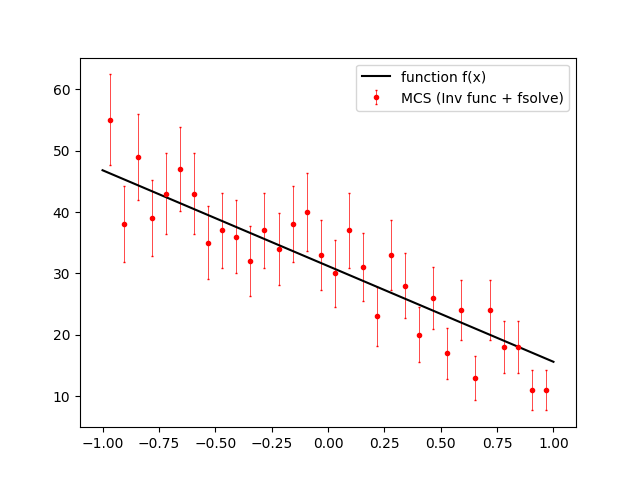
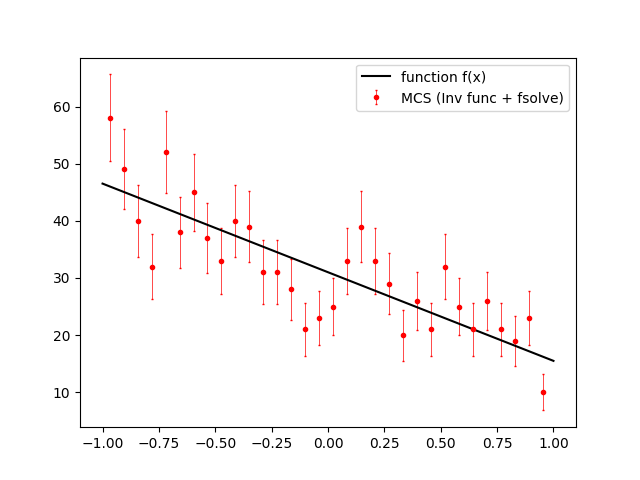
comments + comparing section init

diff --git a/Montecarlo/montecarlo_test.py b/Montecarlo/montecarlo_test.py
@@ -15,7 +15,7 @@ from tools import bounded_norm_distr, bisection, newton_root_finder, log_scale_i
 start_time = time.monotonic()
 
 
-exercise = 3  #to execute only one exercise at time
+exercise = 5  #to execute only one exercise at time
 
 #**************************************************************
 #plotting config
@@ -304,7 +304,7 @@ elif exercise == 5 :
     while counter < sample_dim:     #algorithm implementation
         u = rng.random()
         
-        zeros = fsolve(func_shifter, mid, (accum_func, arg, u), xtol= tol) #use of fsolve !TAKE CARE OF EXTIMATOR!  
+        zeros = fsolve(func_shifter, x_min, (accum_func, arg, u), xtol= tol) #use of fsolve !TAKE CARE OF EXTIMATOR!  
         y = zeros
         temp.append(y)
         counter +=1
@@ -507,8 +507,8 @@ elif exercise == 7 :
 #**************************************************************
 #INVERSE FUNCTION (ACCUMULATION) METHOD SAMPLING (cum func method on lum func)
 elif exercise == 8 :
-    x_min = 1.0e29              #interval of interest
-    x_max = 1.0e38
+    x_min = 1.0e30             #interval of interest
+    x_max = 1.0e3
  #-----------------------------------------------
     #drawing instructions
     draw = np.geomspace(x_min, x_max, 10000)
@@ -519,7 +519,7 @@ elif exercise == 8 :
     #plt.ylim(1.0e-45 , 1.2e-27)
 
  #-----------------------------------------------
-    sample_dim = 1.0e2              
+    sample_dim = 1.0e3              
     n_bins = round(sample_dim**0.5)
 
 
@@ -535,7 +535,7 @@ elif exercise == 8 :
         
             return (norm *frac)
     elif test_func == 1:
-        arg = (1.0, 2.5e34, -0.66, 18.2)      #disk data for ex
+        arg = (1.0, 2.5e34, -0.66, 18.2)      #NPTF data for ex
         def myfunc(x, norm, x_b, n1, n2):   #broken power law function  (be carefull about exponential renorm)  
             frac = x / x_b
             if  frac < 1:
@@ -547,17 +547,17 @@ elif exercise == 8 :
 
  #--------------------------
 
-    cum_points = np.geomspace(x_min, x_max, n_bins)    #points where to evaluate cum funct
+    cum_points = np.geomspace(x_min, x_max, n_bins)    #points where to evaluate cum funct (to be fixed)
     norm = log_scale_int(myfunc, x_min, x_max, arg)[0]
     
-    bin_dim = np.ones(n_bins)
+    bin_dim = np.ones(n_bins)                           #bins width
     for i in range(1, len(cum_points)):
         bin_dim[i] = cum_points[i] - cum_points[i-1]
 
     cum_values = np.zeros(len(cum_points))
-    for i in range(len(cum_points)):
+    for i in range(len(cum_points)):                    #evaluation of cumulative function in the selected points
         integral = log_scale_int(myfunc, x_min, cum_points[i],arg)
-        cum_values[i] = integral[0] / norm 
+        cum_values[i] = integral[0] / norm              #normalized
 
 
     #rng = np.random.default_rng()
@@ -587,6 +587,78 @@ elif exercise == 8 :
 
     plt.legend()
     plt.savefig(os.path.join("inv_func_sample_lum_func.png"))
+
+#**************************************************************
+#COMPARING (simple func and lum func)
+elif exercise == 9:
+    x_min = -1.0                    #interval of interest
+    x_max = 1.0
+ #drawing and plot
+    draw = np.linspace(x_min, x_max, 10000)
+    fig, ax = plt.subplots()
+
+ #-----------------------------------------------
+    sample_dim = 1.0e3                      #sample dimension
+    n_bins = round(sample_dim**0.5)         #number of bins
+    bin_dim = (x_max - x_min) / n_bins      #bins width
+
+ #-----------------------------------------------
+ #f(x) parameters and definition
+    k = 1.0
+    alpha = -2.0
+    beta = 1.0
+    arg = ()
+
+    test_func = 0
+    if test_func == 0: 
+        def myfunc(x):
+            #log parabola
+            a = alpha - beta * np.log10(x+2.0)
+            return (k * (x+2.0)**a) 
+    elif test_func == 1:
+        def myfunc(x):
+            #abs func (cusp)
+            return (-abs(x) + 2.0) 
+    elif test_func == 2:
+        def myfunc(x):
+
+            return (-x+2.0)
+ #-----------------------------------------------
+
+    cum_points = np.linspace(x_min, x_max, n_bins)    #points where to evaluate cum funct
+    norm = integrate.quad(myfunc, x_min, x_max, arg, epsabs= abs_err, epsrel=rel_err)[0] #normalization to unit
+
+    cum_values = np.zeros(len(cum_points))      
+    for i in range(len(cum_points)):                   #evaluation of cumulative function in the selected points
+        integral = integrate.quad(myfunc, x_min, cum_points[i], arg, epsabs= abs_err, epsrel=rel_err)[0]
+        cum_values[i] = integral / norm #normalized
+
+    #rng = np.random.default_rng()
+    #u = rng.random(sample_dim)
+    u = np.random.random_sample(int(sample_dim))
+
+    x = np.zeros(int(sample_dim))
+    y_n = np.zeros(n_bins)              #count how many cases are in a bin
+    for i in range(0 , int(sample_dim)):
+        step = 0
+        while (cum_values[step] < u[i]):
+            step += 1
+            
+        x[i] = cum_values[step]
+        y_n[step] +=1
+
+ #-----------------------------------------------
+    #plot
+    vector_func = np.vectorize(myfunc)
+    y_draw = vector_func(draw, *arg)
+    ax.plot(draw, y_draw/norm*sample_dim*bin_dim, color = "black", label = "function f(x)")
+
+    y_err = y_n ** 0.5
+    #count, bins, ignored = ax.hist(x, n_bins, density=True)
+    ax.errorbar(cum_points[1:], y_n[1:] , yerr = y_err[1:], color='r', capsize=1, capthick=1,ls='', elinewidth=0.5,marker='o',markersize=3, label = 'MCS (Inv func + cum)')
+
+    plt.legend()
+    plt.savefig(os.path.join("inv_func_sample(cumulative).png"))
 
 end_time = time.monotonic()
 print("Execution time: " , timedelta(seconds= end_time - start_time))

diff --git a/toolbox/tools.py b/toolbox/tools.py
@@ -10,6 +10,10 @@ from scipy.special import erf
 # Root finders
 
 def bisection(func, arg, a, b, tol= 1.0e8, nmax=1.0e4, print_stat = False):
+    #bisection method root finder.
+    #Search a root (in the interval [a, b])  of a function func with arguments arg. 
+    #Tolerance and number of maximum interations are pre-selected.
+    #print_stat: if true print the # of iter, root value computed and function evaluated in that point
     dx = abs(b-a)
     res = a + 0.5 * dx
     k = 0
@@ -45,6 +49,12 @@ def bisection(func, arg, a, b, tol= 1.0e8, nmax=1.0e4, print_stat = False):
     return res
 #-------------------------------------------------------
 def newton_root_finder(func, func_prime, arg, arg_prime, a, c, tol=1.0e8, n_max=1.0e4, print_stat = False ):
+    #Newtonmethod root finder.
+    #Search a root (in the interval [a, b])  of a function func with arguments arg.
+    #!PRIME DERIVATIVE (func_prime) AND ITS ARGUMENTS (arg_prime) MUST BE PROVIDDED
+    #Tolerance and number of maximum interations are pre-selected.
+    #print_stat: if true print the # of iter, root value computed and function evaluated in that point
+   
     b = a + abs(c-a)
     fa = func(a, *arg)
     fb = func(b, *arg)
